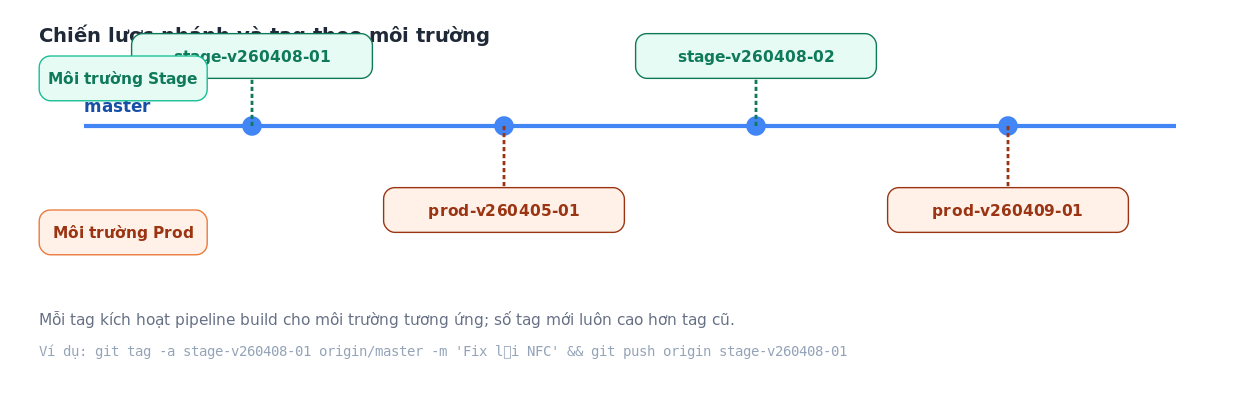
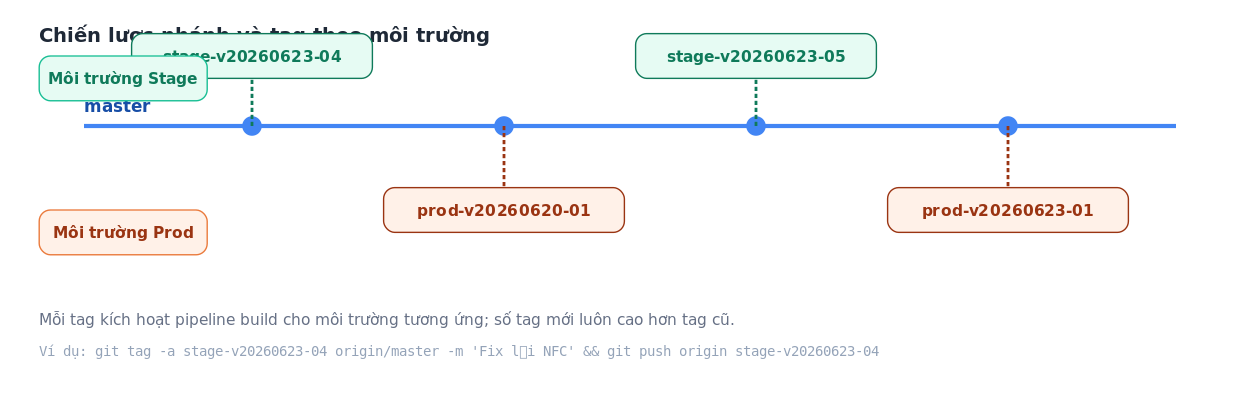
update bài viết và báo cáo

diff --git a/cài đặt/05-dong-goi-app-pipeline.md b/cài đặt/05-dong-goi-app-pipeline.md
@@ -48,7 +48,7 @@ resources:
 ```
 `Chart.yaml` có dòng `appVersion` — chính là **tag image** mà pipeline sẽ cập nhật:
 ```yaml
-appVersion: "stage-v260408-01"
+appVersion: "stage-v20260623-04"
 ```
 Commit chart lên kho `devsecops`.
 